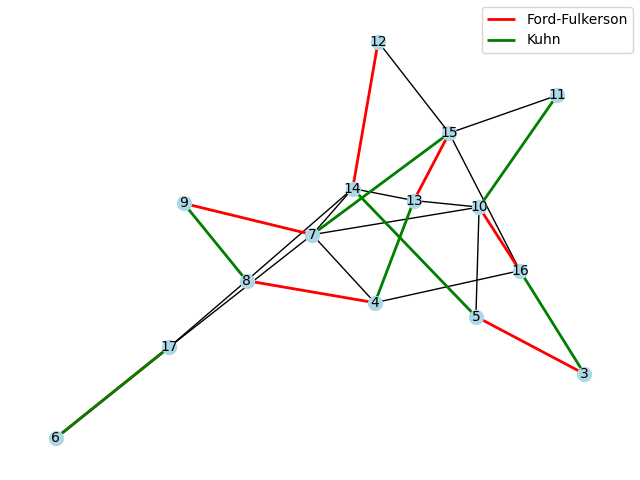
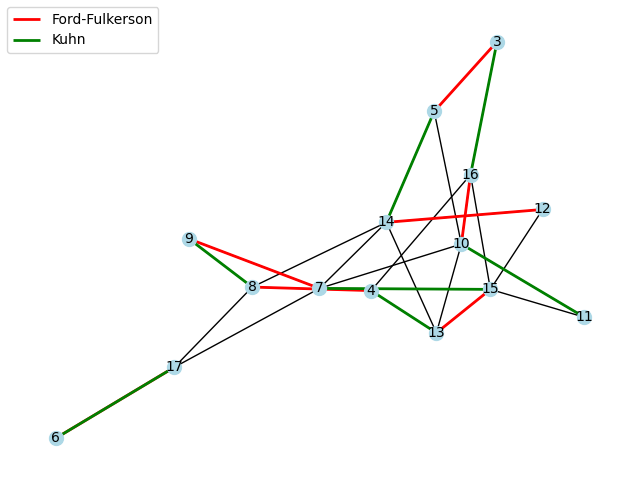
done

diff --git a/Lab4/add.py b/Lab4/add.py
@@ -2,6 +2,8 @@
 import heapq
 import math
 from collections import Counter
+from collections import defaultdict
+from math import ceil, log2
 
 class Node:
     """Представляет узел дерева Хаффмана."""
@@ -80,11 +82,11 @@ def analyze_text(file_path, allowed_characters):
     try:
         with open(file_path, 'r', encoding='utf-8') as file:
             text = file.read()
-            original_size = len(text) * 8  # Размер в битах (1 символ = 1 байт = 8 бит)
+            original_size = len(text) * 5  # Размер в битах (1 символ = 1 байт = 8 бит)
             text_length = len(text)
 
             cleaned_text = clean_text(text, allowed_characters)
-            cleaned_size = len(cleaned_text) * 8  # Размер очищенного текста в битах
+            cleaned_size = len(cleaned_text) * 5  # Размер очищенного текста в битах
             print(f"Длина очищенного текста: {len(cleaned_text)} символов")
             print(f"Пример очищенного текста: {cleaned_text[:100]}...")
 
@@ -157,6 +159,35 @@ def analyze_text(file_path, allowed_characters):
             print(f"Коэффициент сжатия (Хаффман для символов): {cleaned_size / encoded_length_chars:.2f}x")
             print(f"Коэффициент сжатия (Хаффман для диграфов): {cleaned_size / encoded_length_digraphs:.2f}x")
             print(f"Коэффициент сжатия (равномерное кодирование): {cleaned_size / uniform_encoded_length:.2f}x")
+
+            freqs1 = defaultdict(int)
+            freqs2 = defaultdict(int)
+            for ch in text:
+                freqs1[ch] += 1
+            for i in range(len(text) - 1):
+                freqs2[text[i] + text[i + 1]] += 1
+            # Алгоритм LZW
+            LZW_dict = {ch: i for i, ch in enumerate(sorted(freqs1.keys()))}
+            next_code = len(LZW_dict)
+            compressed = []
+            w = ""
+
+            for c in text:
+                wc = w + c
+                if wc in LZW_dict:
+                    w = wc
+                else:
+                    compressed.append(LZW_dict[w])
+                    LZW_dict[wc] = next_code
+                    next_code += 1
+                    w = c
+            if w:
+                compressed.append(LZW_dict[w])
+            max_code = max(compressed) if compressed else 0
+            bits_per_code = max(5, ceil(log2(max_code + 1)))  # Минимум 5 бит
+            lzw_bits = len(compressed) * bits_per_code
+            print(f"Коэффициентс сжатия (LZW): {lzw_bits / encoded_length_chars:.2f}х")
+            print(f"Длина закодированного текста (LZW): {lzw_bits} бит")
 
     except FileNotFoundError:
         print(f"Ошибка: Файл {file_path} не найден.")

diff --git a/Lab9/main.py b/Lab9/main.py
@@ -1,5 +1,4 @@
 import matplotlib
-matplotlib.use('Agg')
 import matplotlib.pyplot as plt
 from collections import defaultdict, deque
 import networkx as nx
@@ -192,22 +191,16 @@ class GraphK:
 
 def visualize_graph(edges, matching_edges_ford_fulkerson=None, matching_edges_kuhn=None):
     graph = nx.Graph(edges)
-    pos = nx.spring_layout(graph)
+    pos = nx.spring_layout(graph)  # Layout for graph visualization
 
-    plt.figure()
-    nx.draw(graph, pos, with_labels=True, node_color='lightblue', node_size=100, font_size=10)
+    nx.draw(graph, pos, with_labels=True, node_color='lightblue', node_size=500, font_size=10)
 
-    if matching_edges_ford_fulkerson:
-        nx.draw_networkx_edges(graph, pos, edgelist=matching_edges_ford_fulkerson,
-                               edge_color='red', width=2, label='Ford-Fulkerson')
+    # if matching_edges_ford_fulkerson:
+    #     nx.draw_networkx_edges(graph, pos, edgelist=matching_edges_ford_fulkerson, edge_color='red', width=2)
     if matching_edges_kuhn:
-        nx.draw_networkx_edges(graph, pos, edgelist=matching_edges_kuhn,
-                               edge_color='green', width=2, label='Kuhn')
+        nx.draw_networkx_edges(graph, pos, edgelist=matching_edges_kuhn, edge_color='green', width=2)
 
-    plt.legend()
-    plt.savefig("graph_visualization.png")
-    print("Graph visualization saved to graph_visualization.png")
-    plt.close()  # Important to free memory
+    plt.show()
 
 # 1. Проверка двудольности
 is_bipartite_result, part1, part2 = is_bipartite(edges)
